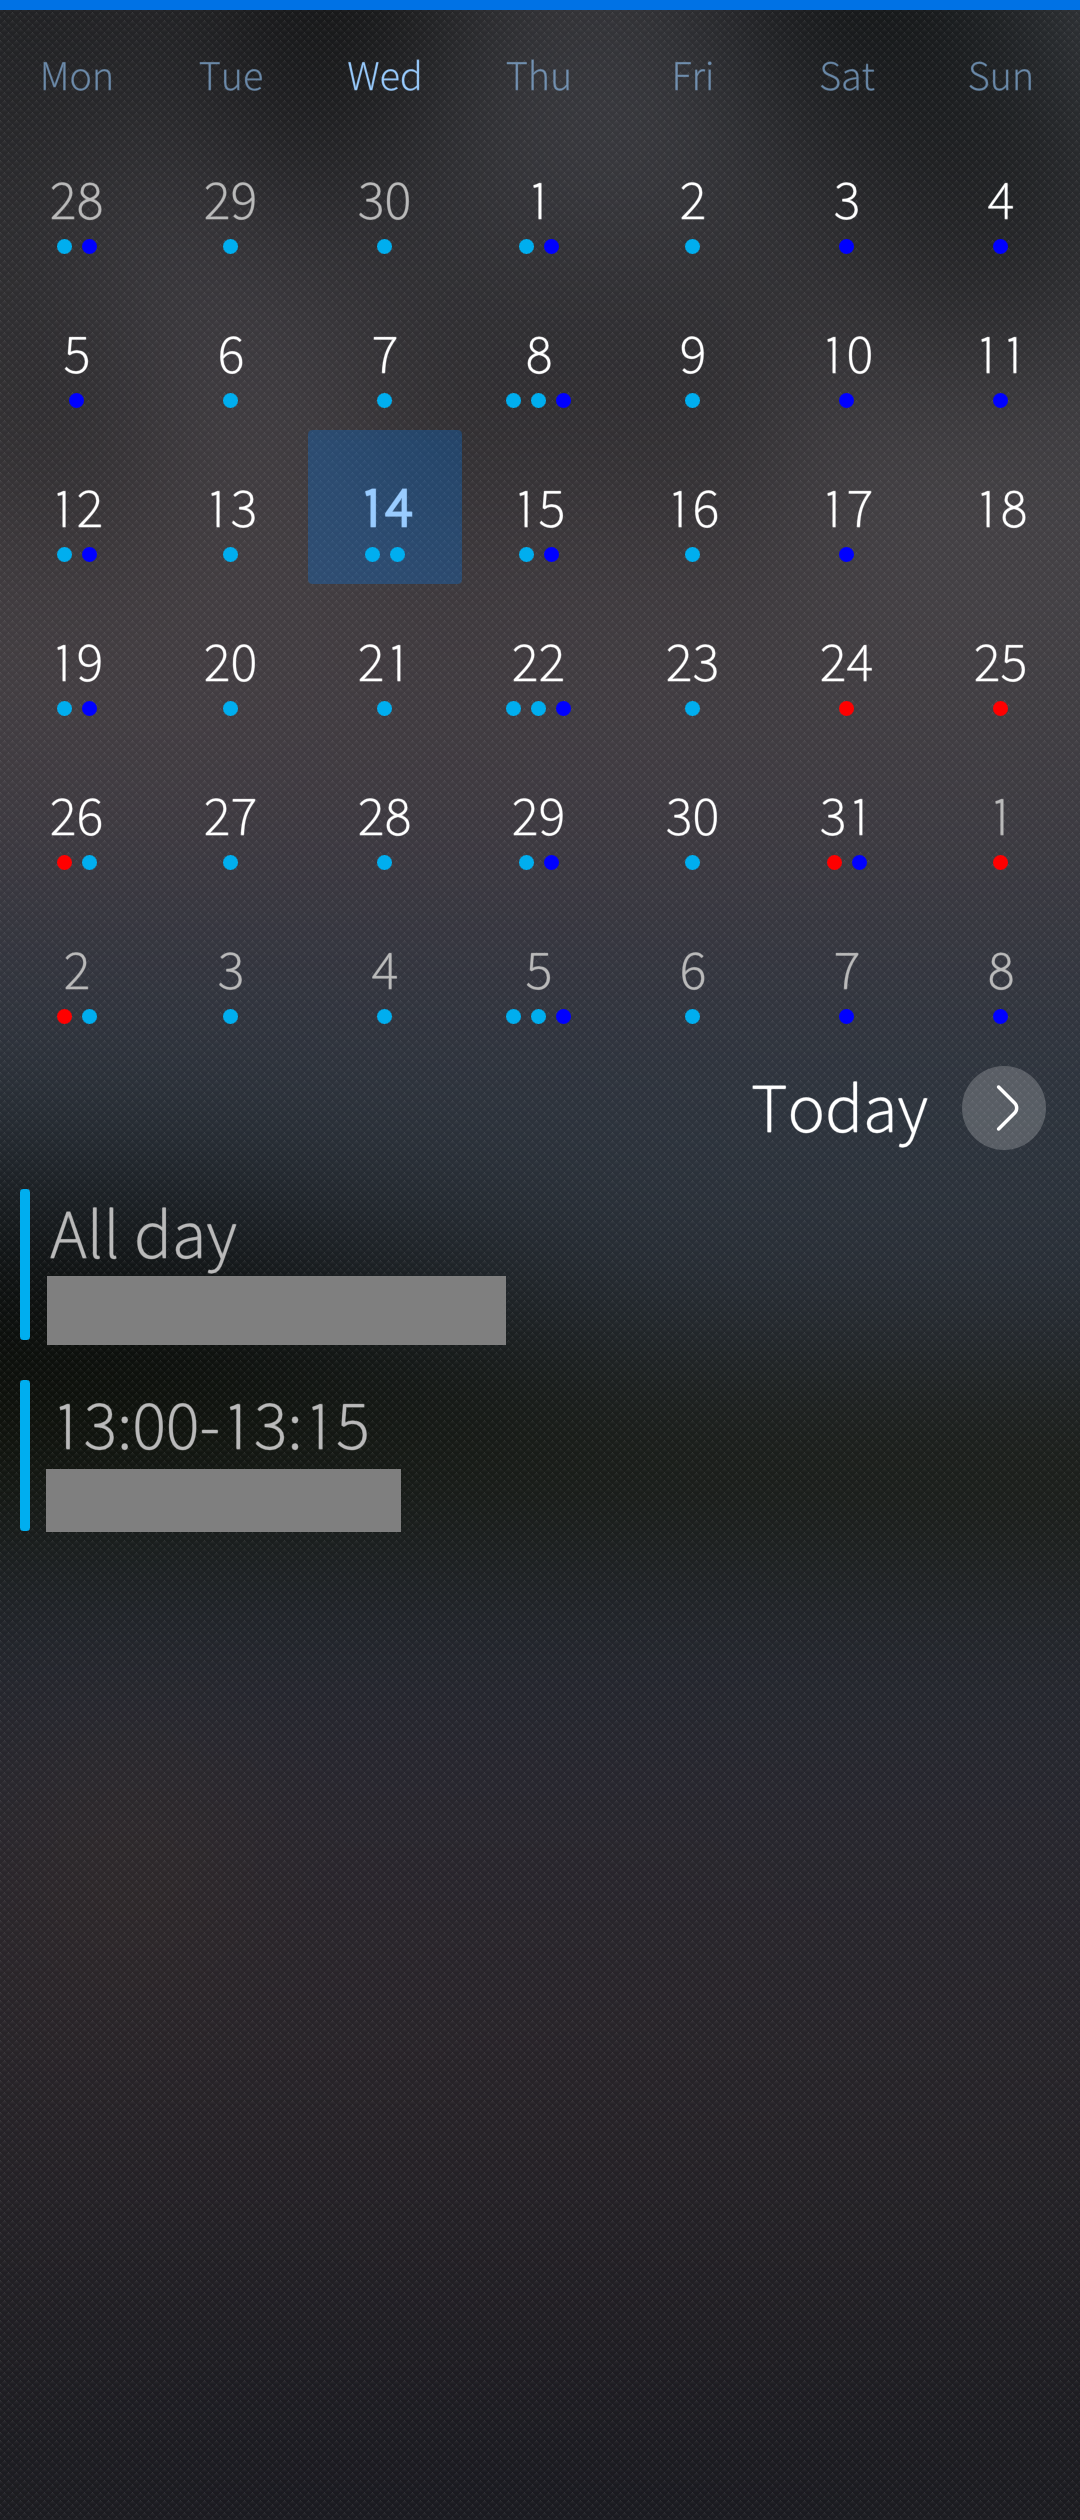
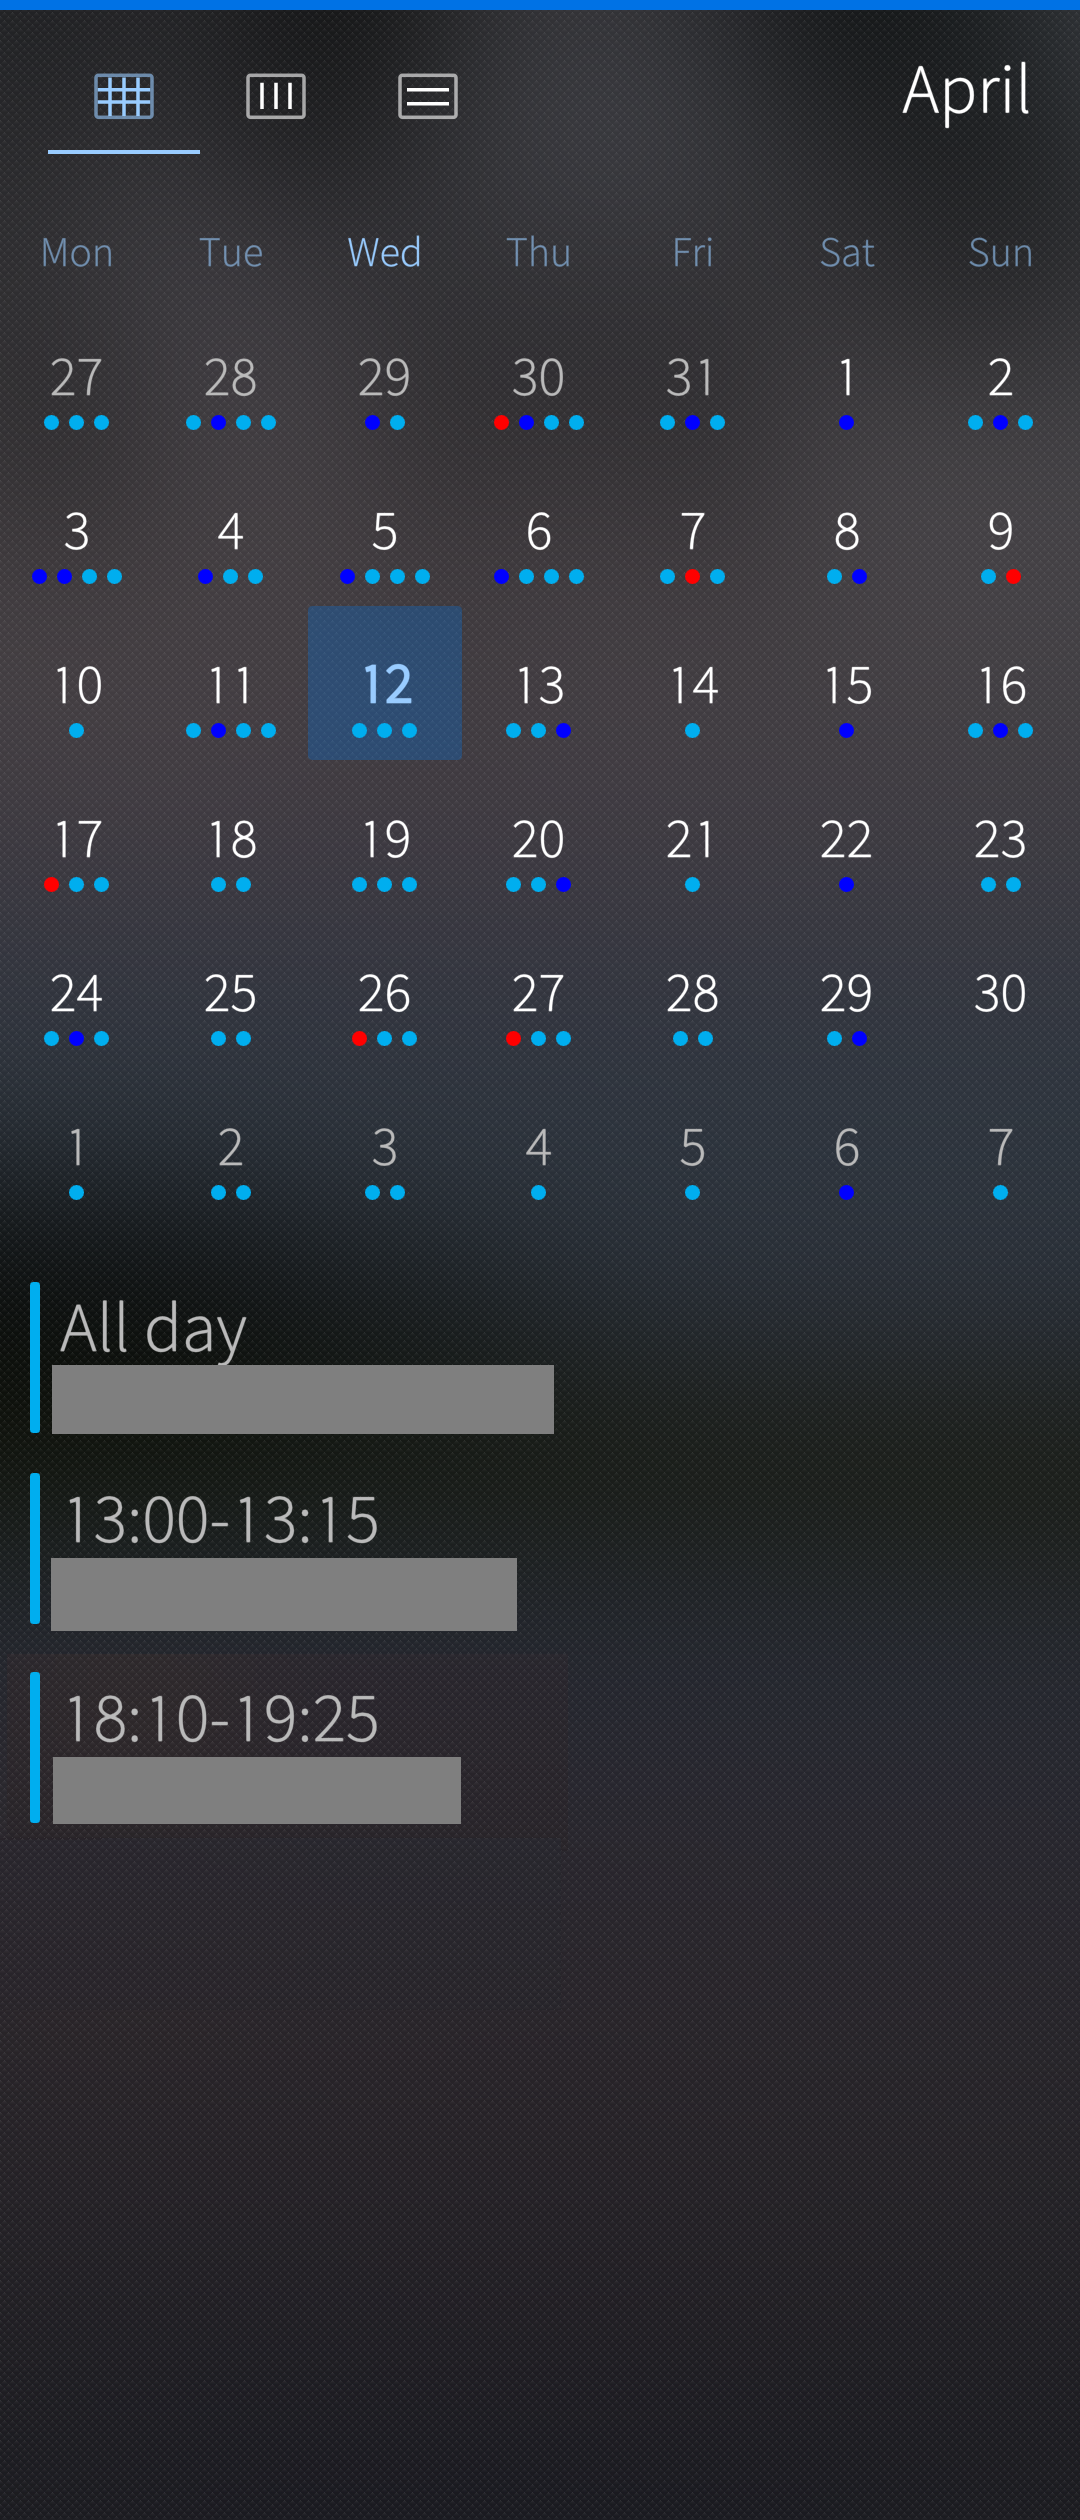
Updating Calendar document

diff --git a/Support/Help_Articles/Calendar/README.md b/Support/Help_Articles/Calendar/README.md
@@ -12,7 +12,7 @@ The **Sailfish Calendar** application is your time-management tool. You can sync
 To be able to use the Calendar, you first have to get it from the Jolla Store. If you didn’t get it during the first launch of your phone, here’s how to get it:
 
 1. Make sure that your Sailfish device is connected to the internet
-2. Open up Jolla Store
+2. Open Jolla Store
 3. From the pulley menu above, search for “calendar”
 4. Download the Calendar app
 5. Open the Calendar
@@ -24,37 +24,49 @@ When your Calendar app opens, you are greeted with the Month view.
 
 * To change the month you are viewing, swipe left or right.
 * A dot(s) under a date indicates that there are one or more appointments for that day. Tapping on a date will show you the calendar entries on that day.
-* To view week numbers, you can swipe slightly from left to right (see the picture in the middle, below)
+* To view week numbers, you can swipe slightly from left to right.
 * Pulling down on the view reveals the pulley menu and the options to “New event”, “Go to today” and “Manage calendars”, and "Sync".
 * If you ever get lost or confused in the Month view, you can select “Go to today” to get back to view the current month and day.
 
 <div class="flex-images" markdown="1">
 
-* <a href="Cal-en-1.png"><img src="Cal-en-1.png" alt="Calendar"></a>
+* <a href="Cal-en-1.png"><img src="Cal-en-1.png" alt="Monthly view"></a>
   <span class="md_figcaption">
   </span>
-* <a href="Cal-en-2.png"><img src="Cal-en-2.png" alt="Calendar"></a>
+* <a href="Cal-en-2.png"><img src="Cal-en-2.png" alt="Monthly view top menu"></a>
+  <span class="md_figcaption">
+  </span>
+</div>
+
+## Weekly View
+
+* You can access the weekly view from the left top corner by selecting the weekly view (icon in the middle).
+* In the weekly view, it is easier to see the summary of the week's events. If you prefer you can also turn the device to landscape mode.
+* To change the week you are viewing, swipe left or right.
+
+<div class="flex-images" markdown="1">
+
+* <a href="Cal-en-3.png" class="narrow-image"><img src="Cal-en-3.png" alt="Weekly view"></a>
   <span class="md_figcaption">
   </span>
 </div>
 
 ## Day View
-You can access the Day view by first selecting a date in the Month view, and then pressing the selected day at the base of the calendar at the right-hand side ("Today" or the weekday like "Wednesday").
 
-In the Day view, it is easier to see if you have any overlapping events scheduled for that day.
-You can also create new events in this view, simply by tapping at the time you want.
-
-At the bottom of the view, you can see events that are coming up if you scroll further down. At the top of the screen, you can see events that are in the past that you can see by scrolling up.
+* You can access the day view from the left top corner by selecting the day view (icon in the right).
+* In the day view, it is easier to see if you have any overlapping events scheduled for that day.
+* You can also create new events in this view, simply by tapping at the time you want.
+* At the bottom of the view, you can see events that are coming up if you scroll further down. At the top of the screen, you can see events that are in the past that you can see by scrolling up.
 
 <div class="flex-images" markdown="1">
 
-* <a href="Cal-en-4.png" class="narrow-image"><img src="Cal-en-4.png" alt="Searching for devices"></a>
+* <a href="Cal-en-4.png" class="narrow-image"><img src="Cal-en-4.png" alt="Day view"></a>
   <span class="md_figcaption">
   </span>
 </div>
 
 # Creating a new Event in Calendar
-When it’s time to mark something important down, pull the view down in the Month view and select “Create new event”.
+When it’s time to mark something important down, pull the pulley menu from the top and select “Create new event”.
 
 1. Give your event a name
 2. Specify the location of the Event
@@ -62,16 +74,14 @@ When it’s time to mark something important down, pull the view down in the Mon
 4. You must then define the start and end date of your event. (Note: in the case of recurring events, this is the start and end time of one instance, not the whole chain of events!)
 
 Starts:
-The start date is by default today’s date.
-The default start time is the time it is now.
+The start date is by default today’s date. The default start time is the time it is now.
 
 Ends:
-The end date is by default also today’s date.
-The default end time is an hour from what the time is now.
+The end date is by default also today’s date. The default end time is an hour from what the time is now.
 
 Tapping on the start and end dates will take you to the Date picker view.
 Tapping on the start and end times will take you to the Time picker view.
-Remember to accept the date and time you chose by tapping on the top right corner where it shows what you chose for the date or time.
+Remember to accept the date and time you chose by tapping on the top right corner.
 
 5. Next, you can define to which calendar on your device the Event should be assigned to. Just press the text “Calendar” to see all the calendars available see [this chapter](#managing-your-calendars). Your calendar app keeps your current choice of the calendar as the default value for new appointments.
 Please note: calendars that have the text (Read-only) after their name, are calendars that can’t be synced back to the cloud. Making entries into these calendars will only be visible on your Sailfish OS device).
@@ -92,7 +102,7 @@ Please note: calendars that have the text (Read-only) after their name, are cale
 </div>
 
 # Managing your Calendars
-Sometimes you might want to control how many calendars are visible in your Calendar application, or just check which ones you’re currently subscribed to on your device.
+Sometimes you might want to control how many calendars are visible in your Calendar application, or just check which ones you’re currently subscribed to on your device. Calendars are shown in the calendar view with different colours.
 
 To manage your calendars:
 1. Open your Calendar app
@@ -124,10 +134,47 @@ Google calendar and Microsoft Exchange calendar are examples of calendar types, 
 </div>
 
 # Good-to-know about the Calendar in general
-If you set an end date for your calendar entry, the event will end on the date you’ve specified, but the calendar will treat it as a non-stop event. This means that an event will begin the date you specify, start at the time you specify, and then go on uninterrupted until the end date and time you time you’ve specified.
-There is no week view in the Calendar app.
-Birthday events cannot be created, deleted or modified in Calendar because they are obtained through syncing. It is, however, possible to change or delete a person’s birthday by modifying that person’s information in the People application (phonebook). Thereafter the modification made will appear in Calendar, too.
-The sync schedule for your calendars is the same as for the corresponding email service. For Exchange, there are more refined sync options in Settings > Accounts > Exchange.
-You can snooze a calendar alert by flipping the phone (turn it screen downwards) or by pressing the power key shortly.
+* Birthday events cannot be created, deleted or modified in Calendar because they are obtained through syncing. However it is possible to change or delete a person’s birthday by modifying that person’s information in the People application. That modification will appear also to Calendar.
+* The sync schedule for your calendars is the same as for the corresponding email service. For Exchange, there are more refined sync options in Settings > Accounts > Exchange.
+* You can snooze a calendar alert by flipping the phone (turn it screen downwards) or by pressing the power key shortly.
+* The calendar events can't be moved between calendars, so make sure you select the correct calendar when creating a new event.
+
+# How to heal the calendar or contact sync of Google
+This article may turn out helpful in resolving persistent issues in Google sync.
+ 
+It is known that sometimes, even though the actual calendar sync is pulling the appointments from the server to the database in the phone, these appointments do not appear in Sailfish Calendar. Likewise, the contact sync may not do its job.
+The following is a kind of reset of the sync utility. It does not do any harm to the appointments or contacts.
+ 
+## Preparations
+1. You will need the Developer mode and the SSH password. Do as instructed in [this help article](/Support/Help_Articles/Enabling_Developer_Mode/).
+2. Delete the Google account from your phone (Settings > Accounts).
+ 
+## Deleting sync state files
+Delete the sync state files of calendar and contacts (respectively) with the commands below.
+
+Check first what files you have:
+```
+devel-su ls -al /home/$USER/.local/share/system/privileged/Sync/
+```
+Delete Calendar initialisation file (if it exist) related to Google sync (note that after the command is given confirmation is asked, answer: yes and press Enter):
+```
+devel-su rm -i /home/$USER/.local/share/system/privileged/Sync/gcal.ini
+```
+Delete Contacts initialisation file (if it exist) related to Google sync (note that after the command is given confirmation is asked, answer: yes and press Enter):
+```
+devel-su rm -i /home/$USER/.local/share/system/privileged/Sync/gcontacts.ini 
+```
+
+## Checking the server
+It is good to visit calendar.google.com and contacts.google.com at this point, using a computer browser, and check how it looks there. Eliminate potential duplicates and other deviations from the normal.
+ 
+## Add Google account and sync it
+Add your Google account again at Settings > Accounts > Add Account.
+ 
+The next sync should be a "clean sync" which should pull in all of the events from the server.
+Trigger a sync cycle by opening up "Settings > Accounts". Then long-tap the account to be synced. Tap "Sync" in the pop-up menu.
+ 
+## Collecting of logs
+This [article](https://jolla.zendesk.com/hc/en-us/articles/115011963227) explains how to collect logs concerning the sync of various accounts.
 
 
